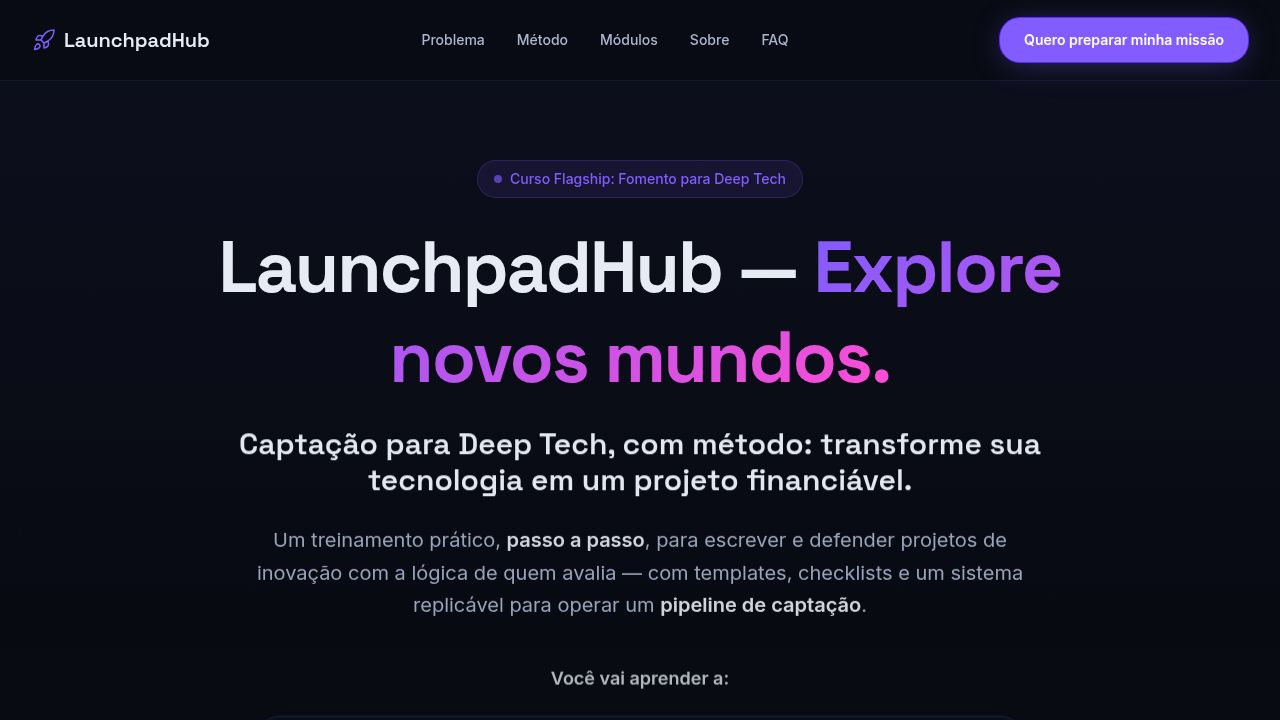
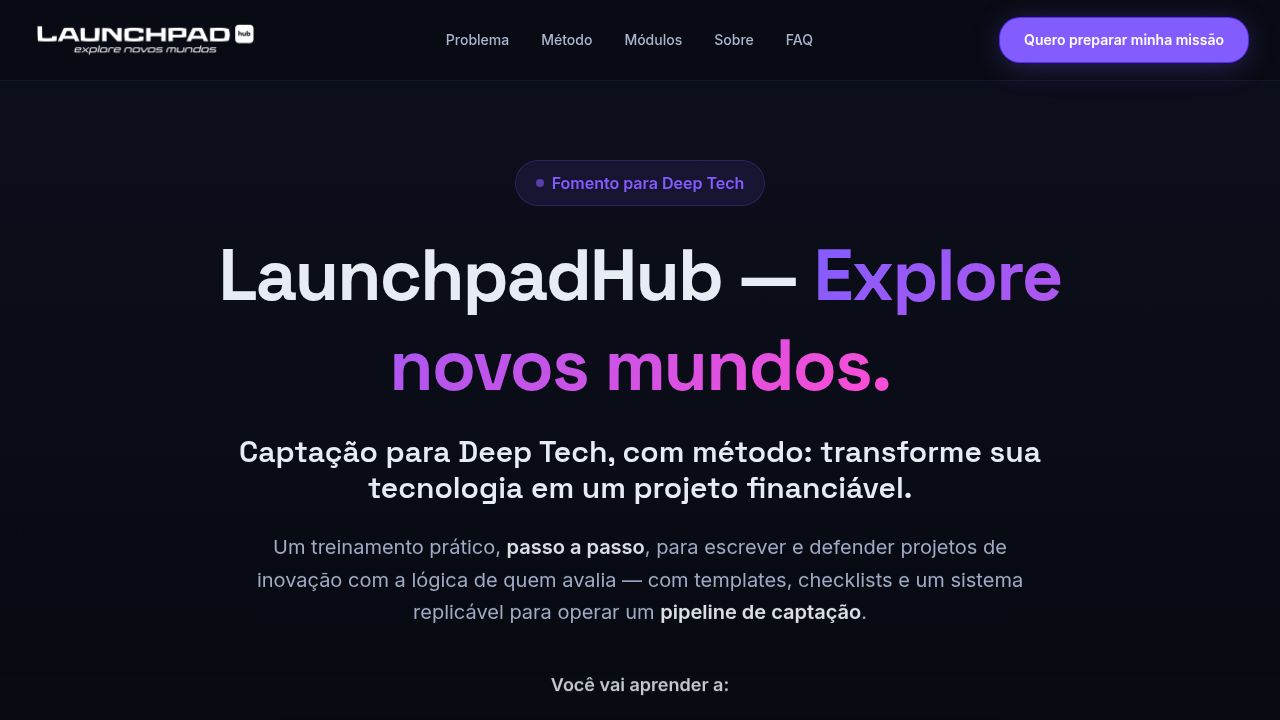
Update page navigation for call to action buttons
Modify Hero and Navbar components to link to the '#oferta' section instead of an external Hotmart URL.

Replit-Commit-Author: Agent
Replit-Commit-Session-Id: cc5c72fd-722a-40cb-bd3e-0e9b45827596
Replit-Commit-Checkpoint-Type: full_checkpoint
Replit-Commit-Event-Id: 9d126de8-688a-4df6-a65e-0ccdc775fa95
Replit-Commit-Screenshot-Url: https://storage.googleapis.com/screenshot-production-us-central1/c94249a8-a676-40ce-bce9-b202edd17bc7/cc5c72fd-722a-40cb-bd3e-0e9b45827596/hNEnTmP
Replit-Helium-Checkpoint-Created: true

diff --git a/client/src/components/landing/Navbar.tsx b/client/src/components/landing/Navbar.tsx
@@ -43,9 +43,7 @@ export function Navbar() {
 
           <div className="hidden lg:block">
             <a
-              href="https://go.hotmart.com/G87137068B"
-              target="_blank"
-              rel="noopener noreferrer"
+              href="#oferta"
               className="inline-flex items-center justify-center px-6 py-3 text-sm font-semibold text-white bg-cta hover:bg-cta/90 rounded-xl transition-all duration-200 cta-glow"
               data-testid="button-cta-nav"
             >
@@ -79,9 +77,7 @@ export function Navbar() {
               </a>
             ))}
             <a
-              href="https://go.hotmart.com/G87137068B"
-              target="_blank"
-              rel="noopener noreferrer"
+              href="#oferta"
               onClick={() => setIsOpen(false)}
               className="block w-full text-center px-6 py-3 mt-4 text-sm font-semibold text-white bg-cta rounded-xl"
               data-testid="button-cta-mobile"

diff --git a/client/src/components/landing/Hero.tsx b/client/src/components/landing/Hero.tsx
@@ -64,9 +64,7 @@ export function Hero() {
 
         <div className="text-center animate-fade-in-up animate-delay-400">
           <a
-            href="https://go.hotmart.com/G87137068B"
-            target="_blank"
-            rel="noopener noreferrer"
+            href="#oferta"
             className="inline-flex items-center gap-3 px-8 py-4 text-lg font-semibold text-white bg-cta hover:bg-cta/90 rounded-2xl transition-all duration-200 cta-glow group"
             data-testid="button-cta-hero"
           >